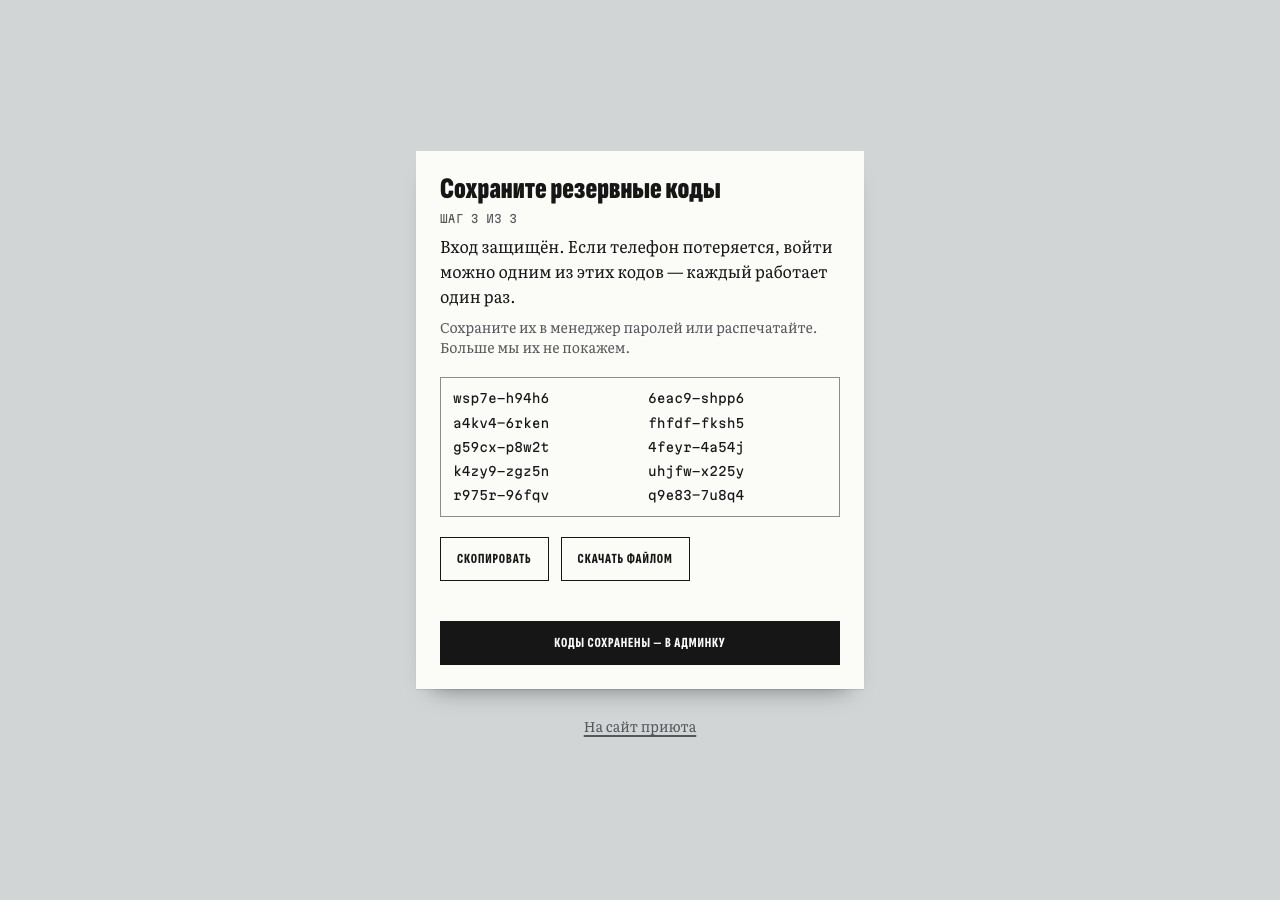
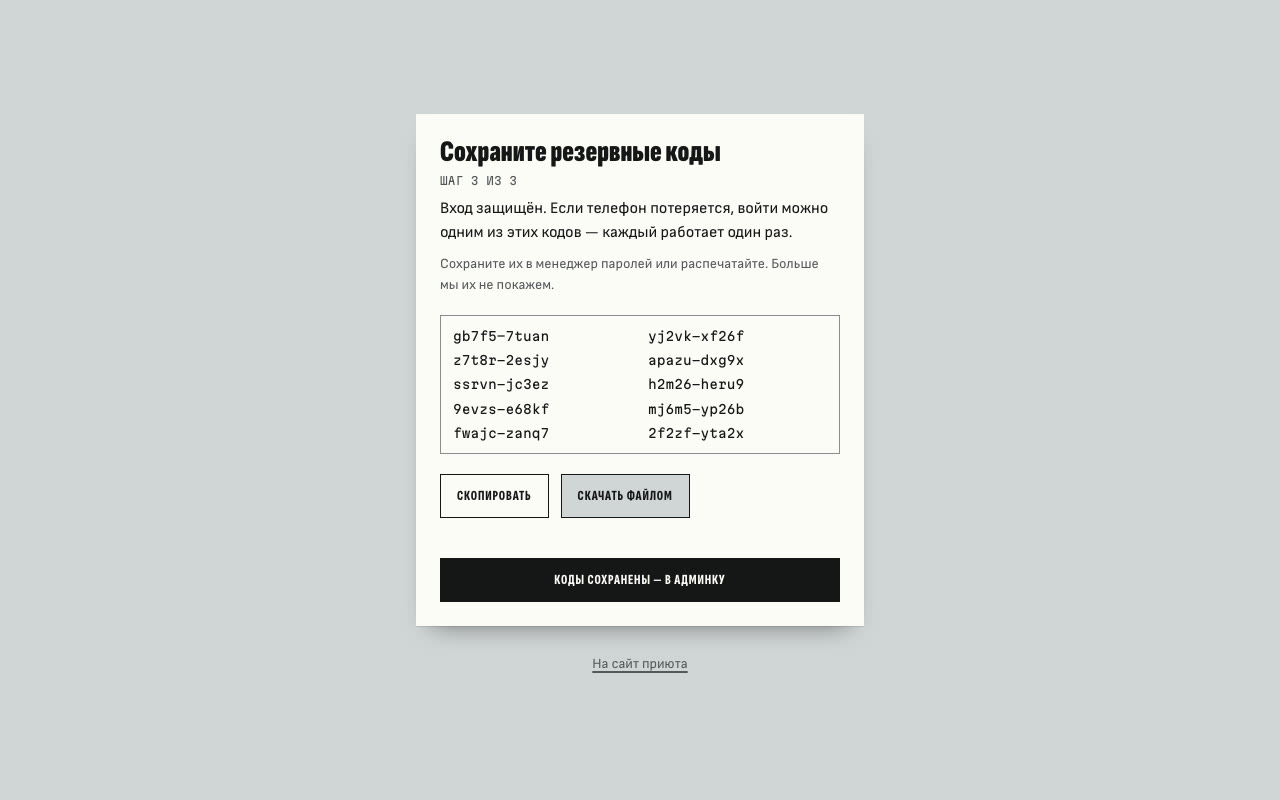
docs(admin): add screenshots of the admin shell, retake sign-in screens
The sign-in screens are inside the /admin layout and are set in Sofia Sans now.

Changed region(s): [[0.3125, 0.125, 0.6875, 0.6562], [0.3125, 0.6875, 0.6875, 0.8438]]

diff --git a/docs/assets/admin-auth/README.md b/docs/assets/admin-auth/README.md
@@ -1,12 +1,13 @@
 # Скриншоты входа сотрудников (FND-6)
 
-Экраны из задачи [FND-6](https://github.com/LedLimon/shelter/issues/27): вход в `/admin` с паролем и TOTP и первая настройка приложения-аутентификатора. Сняты на production-сборке с тестовыми пользователями e2e (`e2e/support/users.ts`). Ключ, QR и резервные коды на них — из локальной тестовой базы, не секреты. Как устроен вход — [docs/architecture.md](../../architecture.md#вход-сотрудников).
+Экраны из задачи [FND-6](https://github.com/LedLimon/shelter/issues/27): вход в `/admin` с паролем и TOTP и первая настройка приложения-аутентификатора. Пересняты в FND-7 на dev-сервере, когда текст админки стал Sofia Sans; пользователи — тестовые из e2e (`e2e/support/users.ts`). Ключ, QR и резервные коды на них — из локальной тестовой базы, не секреты. Как устроен вход — [docs/architecture.md](../../architecture.md#вход-сотрудников).
 
-| Файл                            | Что на нём                                             |
-| ------------------------------- | ------------------------------------------------------ |
-| `login-mobile-light.jpg`        | 375 px, светлая: email и пароль                        |
-| `totp-mobile-dark.jpg`          | 375 px, тёмная: шаг с кодом из приложения              |
-| `setup-step1-mobile-light.jpg`  | 375 px, светлая: настройка TOTP, подтверждение пароля  |
-| `setup-step2-mobile-dark.jpg`   | 375 px, тёмная: QR и ключ вручную                      |
-| `setup-step3-desktop-light.jpg` | 1280 px, светлая: резервные коды                       |
-| `admin-desktop-light.jpg`       | 1280 px, светлая: заглушка админки после входа (FND-7) |
+| Файл                            | Что на нём                                            |
+| ------------------------------- | ----------------------------------------------------- |
+| `login-mobile-light.jpg`        | 375 px, светлая: email и пароль                       |
+| `totp-mobile-dark.jpg`          | 375 px, тёмная: шаг с кодом из приложения             |
+| `setup-step1-mobile-light.jpg`  | 375 px, светлая: настройка TOTP, подтверждение пароля |
+| `setup-step2-mobile-dark.jpg`   | 375 px, тёмная: QR и ключ вручную                     |
+| `setup-step3-desktop-light.jpg` | 1280 px, светлая: резервные коды                      |
+
+Админка после входа — в [admin-shell](../admin-shell/).

diff --git a/docs/assets/admin-shell/README.md b/docs/assets/admin-shell/README.md
@@ -1,0 +1,16 @@
+# Скриншоты каркаса админки (FND-7)
+
+Экраны из задачи [FND-7](https://github.com/LedLimon/shelter/issues/32): каркас `/admin`, форма «Настройки» и `DataTable`. Сняты на dev-сервере с тестовыми сотрудниками e2e (`e2e/support/users.ts`); реквизиты, суммы и операции на них — демо-данные. Как это устроено — [docs/design.md](../../design.md#админка) и [docs/architecture.md](../../architecture.md#админка).
+
+| Файл                               | Что на нём                                                                |
+| ---------------------------------- | ------------------------------------------------------------------------- |
+| `dashboard-desktop-light.jpg`      | 1280 px, светлая: каркас и меню владельца, заглушка дашборда              |
+| `settings-desktop-light.jpg`       | 1280 px, светлая: форма «Настройки» целиком                               |
+| `settings-errors-desktop-dark.jpg` | 1280 px, тёмная: ошибки полей, фокус на первой, листок «Сохранить»        |
+| `settings-mobile-dark.jpg`         | 375 px, тёмная: ошибка поля и липкий листок                               |
+| `menu-mobile-light.jpg`            | 375 px, светлая: шторка с разделами                                       |
+| `user-menu-mobile-dark.jpg`        | 375 px, тёмная: меню пользователя у куратора на странице-заглушке раздела |
+| `forbidden-desktop-light.jpg`      | 1280 px, светлая: 403 внутри каркаса — куратор открыл «Настройки»         |
+| `data-table-desktop-light.jpg`     | 1280 px, светлая: `DataTable` на витрине `/dev/ui`                        |
+| `data-table-desktop-dark.jpg`      | 1280 px, тёмная: сортировка по сумме и фильтр «Расход»                    |
+| `data-table-mobile-light.jpg`      | 375 px, светлая: поиск, таблица прокручивается внутри листа, тень у края  |
